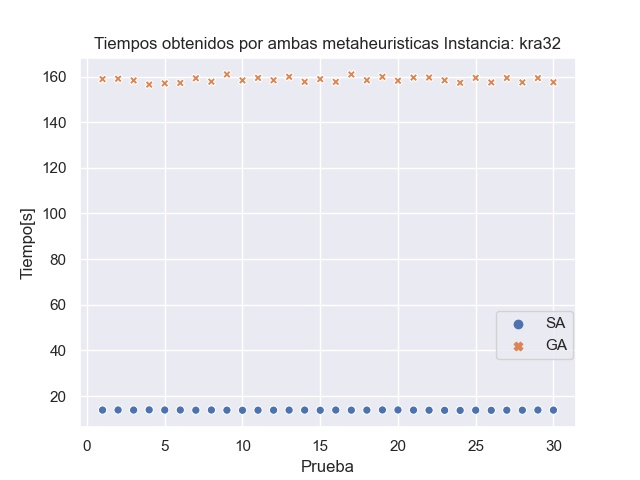
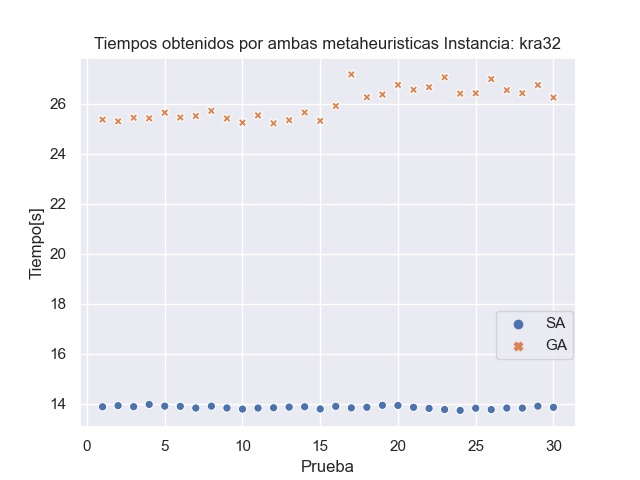
ADD: Final results for bests

diff --git a/graph.py b/graph.py
@@ -185,6 +185,8 @@ iteration = ["25 iter.(base)", "50 iter.", "10 iter."]
 iteration_filename_chr12a = ["result_sa/chr12a_base_SA", "result_sa/chr12a_iterations_50_SA", "result_sa/chr12a_iterations_10_SA"]
 
 iteration_times, iteration_bests = unify_data(iteration, iteration_filename_chr12a, 30, 0)
+df = iteration_times.groupby('Parámetro').describe()
+#print(df)
 
 
 ##### PLOT TIME #######
@@ -237,25 +239,28 @@ graph_scatterplot(times, "plots_best/chr12a_best_time_boxplot.jpg", "Tiempos obt
 graph_boxplot(bests, "plots_best/chr12a_best_obj_value_boxplot.jpg", "Valores objetivos obtenidos por ambas metaheuristicas Instancia: chr12a", 'Valor objetivo')
 
 a = times.groupby('Parámetro').describe()
-#print(a)
+print("*************CHR12A*******************")
+print(a)
 b = bests.groupby('Parámetro').describe()
-#print(b)
+print(b)
 
-filename_bests_chr12a = ["result_best/esc64a_best_sa","result_best/esc64a_best_ga"]
+filename_bests_chr12a = ["result_best/esc64a_best_sa","result_new/result/esc64a_best_ga"]
 times, bests = unify_data(algorithm, filename_bests_chr12a, 30, 1)
-graph_scatterplot(times, "plots_best/esc64_best_time_boxplot.jpg", "Tiempos obtenidos por ambas metaheuristicas Instancia: esc64", 'Tiempo')
-graph_boxplot(bests, "plots_best/esc64_best_obj_value_boxplot.jpg", "Valores objetivos obtenidos por ambas metaheuristicas Instancia: esc64", 'Valor objetivo')
+graph_scatterplot(times, "plots_best/esc64a_best_time_boxplot.jpg", "Tiempos obtenidos por ambas metaheuristicas Instancia: esc64a", 'Tiempo')
+graph_boxplot(bests, "plots_best/esc64a_best_obj_value_boxplot.jpg", "Valores objetivos obtenidos por ambas metaheuristicas Instancia: esc64a", 'Valor objetivo')
 
 a = times.groupby('Parámetro').describe()
-#print(a)
+print("*************ESC64A*******************")
+print(a)
 b = bests.groupby('Parámetro').describe()
-#print(b)
+print(b)
 
-filename_bests_chr12a = ["result_best/kra32_best_sa","result_best/kra32_best_ga"]
+filename_bests_chr12a = ["result_best/kra32_best_sa","result_new/result/kra32_best_ga"]
 times, bests = unify_data(algorithm, filename_bests_chr12a, 30, 1)
 graph_scatterplot(times, "plots_best/kra32_best_time_boxplot.jpg", "Tiempos obtenidos por ambas metaheuristicas Instancia: kra32", 'Tiempo')
 graph_boxplot(bests, "plots_best/kra32_best_obj_value_boxplot.jpg", "Valores objetivos obtenidos por ambas metaheuristicas Instancia: kra32", 'Valor objetivo')
 
+print("*************KRA32*******************")
 a = times.groupby('Parámetro').describe()
 print(a)
 b = bests.groupby('Parámetro').describe()
